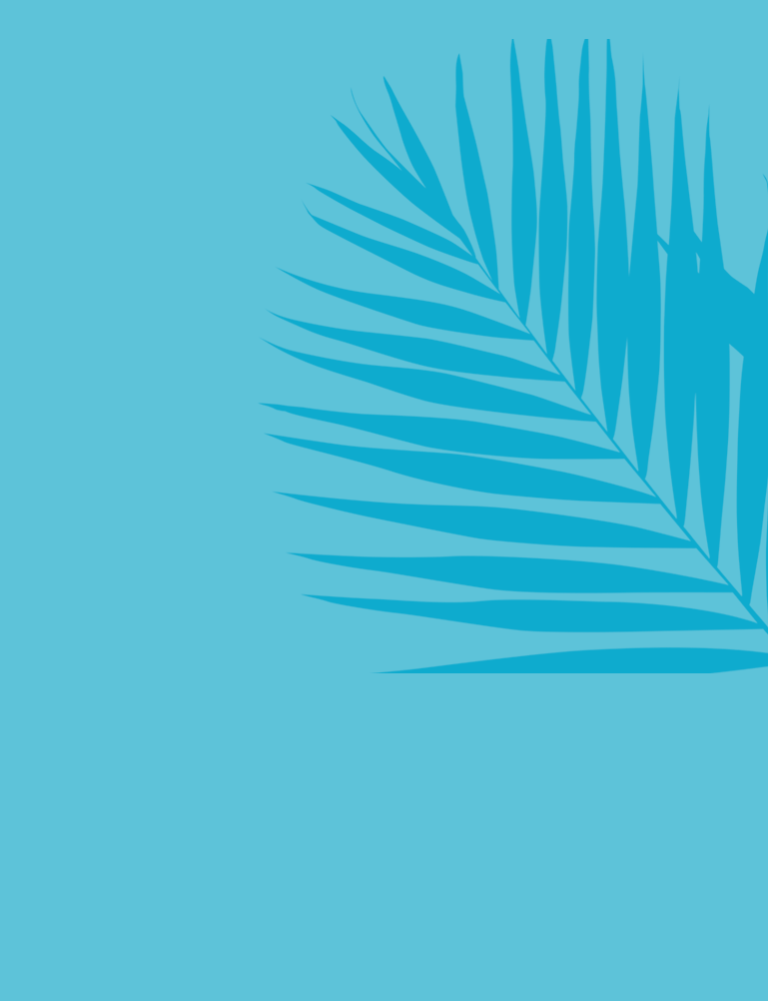
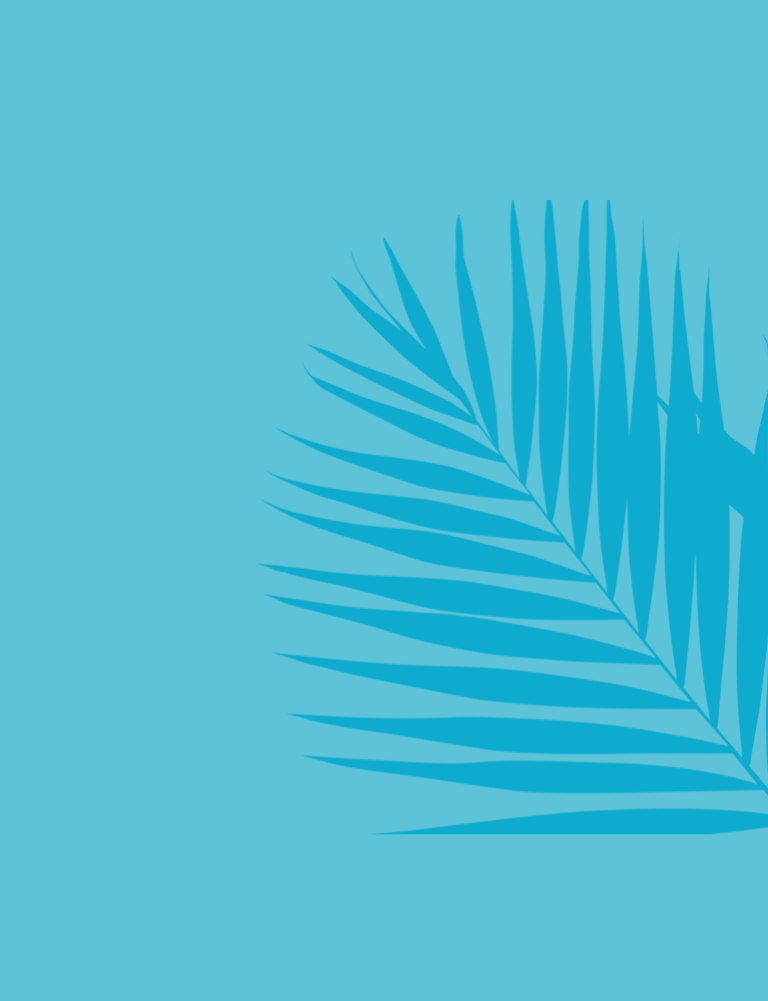
Поправил фон на таблетках секции intro.

Changed region(s): [[0.3438, 0.031, 1.0, 0.8362]]

diff --git a/assets/css/main.css b/assets/css/main.css
@@ -726,6 +726,9 @@ body {
 .intro {
   background: url("../images/intro/bg-intro.png") center center no-repeat;
   background-size: cover; }
+  @media screen and (max-width: 991.98px) {
+    .intro {
+      background: url("../images/intro/bg-intro-tablets.png") center center no-repeat; } }
   .intro__container {
     display: flex;
     height: 100%;

diff --git a/assets/css/blocks/_intro.scss b/assets/css/blocks/_intro.scss
@@ -2,6 +2,11 @@
   background: url("../images/intro/bg-intro.png") center center no-repeat;
   background-size: cover;
 
+  @include tablets {
+    background: url("../images/intro/bg-intro-tablets.png") center center
+      no-repeat;
+  }
+
   &__container {
     display: flex;
     height: 100%;
